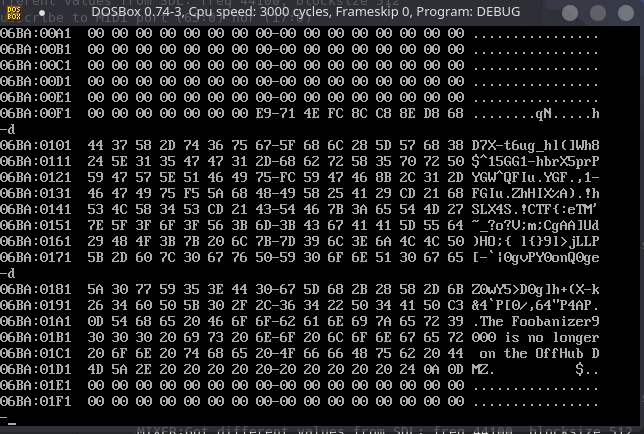
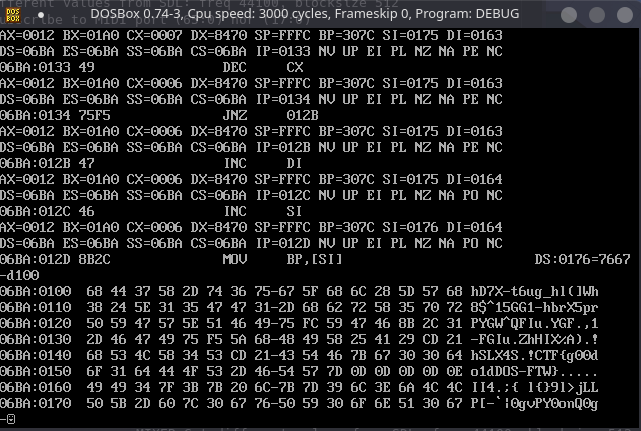
floppy2

diff --git a/2018/beginners/misc-floppy2/Note.md b/2018/beginners/misc-floppy2/Note.md
@@ -9,9 +9,10 @@
 	+ In Linux or Unix system, only one single character linefeed will be used.
 	+ In Windows system, a carraiage return and a linefeed is used.
 
-- Get it run under the dosbox, and try to debug it, trace the flow and found it repeating xor, seems to overwriting something.
+- Get it run under the dosbox, and try to debug it, trace the flow.
+- Finding it replacing characters in echo iteration, so check the memory and finally found that it will write the right key into the memory after the loop.
 
-- Check the memeory and sees the result that:
+- Check the memeory and get the flag:
 ![dumper.png dumper.png](https://github.com/Karl233/Google-CTF-Learning/blob/master/2018/beginners/misc-floppy2/dumper.png)
 
 # Flag:
